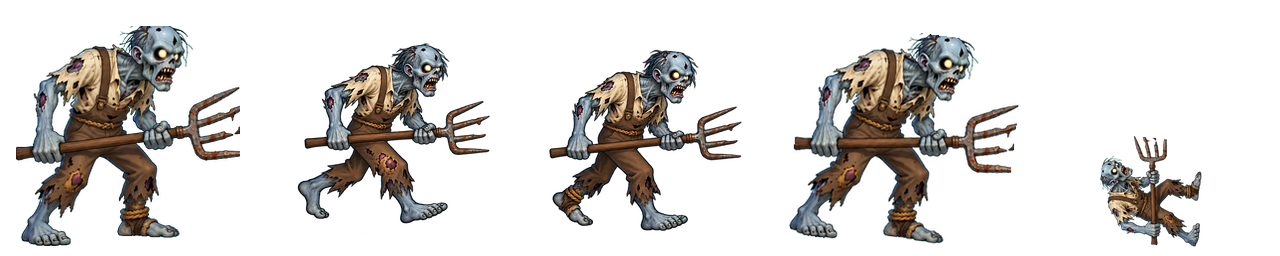
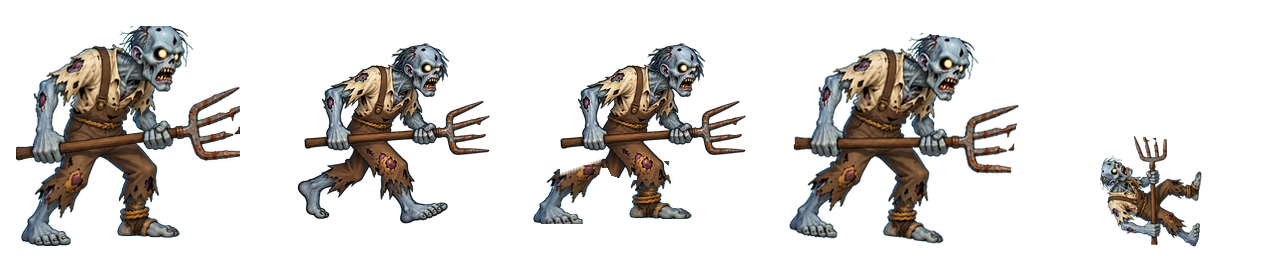
Repair zombie opposite-leg walk

Changed region(s): [[0.4062, 0.1562, 0.5938, 0.9062]]

diff --git a/src/art/registry.ts b/src/art/registry.ts
@@ -46,7 +46,7 @@ export interface TextureSpec {
 // The query is intentional. Painted files are stable public URLs rather than
 // Vite-hashed imports, so a version here guarantees that a deployed art pass
 // cannot be hidden behind an older service-worker entry.
-export const PAINTED_MANIFEST_URL = 'assets/painted/manifest.json?v=regional-environment-52';
+export const PAINTED_MANIFEST_URL = 'assets/painted/manifest.json?v=regional-environment-48';
 
 function specs(drawn: ReadonlySet<string> = new Set()): TextureSpec[] {
   const out: TextureSpec[] = [];

diff --git a/docs/WALK_CYCLE_QA.md b/docs/WALK_CYCLE_QA.md
@@ -2,7 +2,7 @@
 
 All 34 manifest entries whose movement animation points to two frames (`walk: [1, 2]`) were inspected at full sheet resolution. The frame mapping alone does not prove alternate legs.
 
-## Repair required: 10 grounded characters
+## Repair required: 9 grounded characters
 
 In every pair below, the same anatomical leg appears ahead in both movement cells, even when the stride or knee height changes. These sheets must not be counted as completed alternating-leg walks.
 
@@ -12,7 +12,6 @@ In every pair below, the same anatomical leg appears ahead in both movement cell
 - `unit.runesmith.frames`
 - `unit.gravewarden.frames`
 - `unit.skeleton.frames`
-- `unit.zombie.frames`
 - `unit.ghoul.frames`
 - `unit.vampire.frames`
 - `unit.lich.frames`
@@ -33,7 +32,7 @@ These have visibly different wing or trailing-form silhouettes across the two mo
 - `unit.black_hawk.frames`
 - `unit.succubus.frames`
 
-The militia, archer and guardian sheets were repaired by compositing each character's own lower-body pixels: the near leg trails and the far leg leads in the second frame, with right-facing boots and unchanged upper bodies. All three were reviewed at 256 px, 96 px, and a 6 fps preview. Guardian walk B was redone on 2026-09-27: intact knee and shin plates from its idle cell and right-facing boots from its own walk cell replace a jagged first repair. The original tabard hem and upper 154 rows are preserved byte-for-byte; the four-row hip transition is blended. Goblin walk B was repaired on 2026-09-27 with its near boot trailing left and far boot leading right, both toes facing right; only the lower body changed, with all 170 upper rows byte-for-byte identical to walk A. Its rendered lower-body pixels were selected from that goblin's existing idle, walk and attack cells, and checked at 256 px, 96 px, and 6 fps. Goblin runner walk B was repaired with the near leg bending left toward the larger trailing boot and the far leg bending right toward the smaller leading boot. Both original boots retain right-facing toes; the upper 151 rows, arms and dagger remain byte-identical to walk A. Its leg surfaces come from the runner's own walk pixels and were checked at 256 px, 96 px, and 6 fps. Goblin bomber walk B reverses the leather shins and transfers its intact, unmirrored right-facing boots across the stride, while preserving its orange tabard, upper 181 rows and ground shadow. The lower-body hip overlap and the 256 px, 96 px, and 6 fps views were inspected. Hobgoblin walk B transfers its own complete unmirrored leather boots to a reversed stance while retaining the original right knee plate, tunic hem, sword, shield and upper 164 rows. The hip joins and 256 px, 96 px, and 6 fps views were reviewed. Cutthroat walk B moves the near leg and its intact large boot left behind the far leg, with the smaller boot leading right. The original unmirrored boots retain their right-facing toes; softened thigh joins preserve the tabard and both daggers, and the upper 166 rows match walk A. It was checked at 256 px, 96 px and 6 fps. Goblin thief walk B exchanges the leg geometry beneath the shorts, with the near large boot trailing left and the far small boot leading right. The boots are copied unmirrored from its own frame; both right-facing toes and both shin joins were checked at 256 px, 96 px and 6 fps. The upper 181 rows and baseline remain identical to walk A. Dwarf warrior walk B exchanges its own thigh and shin geometry, moving the near armored boot behind to the left and the far boot ahead to the right. Both original boots retain right-facing toes. The shield, apron and upper 172 rows are preserved, the hip overlap is feathered, and the 256 px, 96 px and 6 fps views were reviewed. Bran walk B moves the near armored leg behind to the left and the far leg ahead beneath the shield. Both intact boots come from Bran’s own walk pixels, keep the original scale and baseline, and stay connected to the body. The upper 160 rows and all opaque shield pixels are identical to walk A; the thigh overlap is softened and the sheet was reviewed at 256 px, 96 px and 6 fps. Skeleton archer walk B crosses the exposed bone thighs and knees, moving its near wrapped boot behind to the left and its far boot ahead to the right. Both boots are copied unmirrored from the same skeleton archer, the original red cloak and bow remain intact, the upper 149 rows and baseline match walk A, and the 256 px, 96 px and 6 fps views were reviewed. Bone golem walk B exchanges its own exposed bone knees and feet beneath the unchanged skull and blue drape. The large near foot trails left and the smaller far foot leads right, with right-facing toes, connected limbs and no stray cutout fragments. Its upper 166 rows and ground baseline match walk A, and the 256 px, 96 px and 6 fps views were reviewed. Drafts that repeated the same leading leg or broke the boots were rejected before import. The arbalest remains on `walk: [0]`. The 10 defects above add to, rather than replace, the manifest entries still using idle as their walk.
+The militia, archer and guardian sheets were repaired by compositing each character's own lower-body pixels: the near leg trails and the far leg leads in the second frame, with right-facing boots and unchanged upper bodies. All three were reviewed at 256 px, 96 px, and a 6 fps preview. Guardian walk B was redone on 2026-09-27: intact knee and shin plates from its idle cell and right-facing boots from its own walk cell replace a jagged first repair. The original tabard hem and upper 154 rows are preserved byte-for-byte; the four-row hip transition is blended. Goblin walk B was repaired on 2026-09-27 with its near boot trailing left and far boot leading right, both toes facing right; only the lower body changed, with all 170 upper rows byte-for-byte identical to walk A. Its rendered lower-body pixels were selected from that goblin's existing idle, walk and attack cells, and checked at 256 px, 96 px, and 6 fps. Goblin runner walk B was repaired with the near leg bending left toward the larger trailing boot and the far leg bending right toward the smaller leading boot. Both original boots retain right-facing toes; the upper 151 rows, arms and dagger remain byte-identical to walk A. Its leg surfaces come from the runner's own walk pixels and were checked at 256 px, 96 px, and 6 fps. Goblin bomber walk B reverses the leather shins and transfers its intact, unmirrored right-facing boots across the stride, while preserving its orange tabard, upper 181 rows and ground shadow. The lower-body hip overlap and the 256 px, 96 px, and 6 fps views were inspected. Hobgoblin walk B transfers its own complete unmirrored leather boots to a reversed stance while retaining the original right knee plate, tunic hem, sword, shield and upper 164 rows. The hip joins and 256 px, 96 px, and 6 fps views were reviewed. Cutthroat walk B moves the near leg and its intact large boot left behind the far leg, with the smaller boot leading right. The original unmirrored boots retain their right-facing toes; softened thigh joins preserve the tabard and both daggers, and the upper 166 rows match walk A. It was checked at 256 px, 96 px and 6 fps. Goblin thief walk B exchanges the leg geometry beneath the shorts, with the near large boot trailing left and the far small boot leading right. The boots are copied unmirrored from its own frame; both right-facing toes and both shin joins were checked at 256 px, 96 px and 6 fps. The upper 181 rows and baseline remain identical to walk A. Dwarf warrior walk B exchanges its own thigh and shin geometry, moving the near armored boot behind to the left and the far boot ahead to the right. Both original boots retain right-facing toes. The shield, apron and upper 172 rows are preserved, the hip overlap is feathered, and the 256 px, 96 px and 6 fps views were reviewed. Bran walk B moves the near armored leg behind to the left and the far leg ahead beneath the shield. Both intact boots come from Bran’s own walk pixels, keep the original scale and baseline, and stay connected to the body. The upper 160 rows and all opaque shield pixels are identical to walk A; the thigh overlap is softened and the sheet was reviewed at 256 px, 96 px and 6 fps. Skeleton archer walk B crosses the exposed bone thighs and knees, moving its near wrapped boot behind to the left and its far boot ahead to the right. Both boots are copied unmirrored from the same skeleton archer, the original red cloak and bow remain intact, the upper 149 rows and baseline match walk A, and the 256 px, 96 px and 6 fps views were reviewed. Bone golem walk B exchanges its own exposed bone knees and feet beneath the unchanged skull and blue drape. The large near foot trails left and the smaller far foot leads right, with right-facing toes, connected limbs and no stray cutout fragments. Its upper 166 rows and ground baseline match walk A, and the 256 px, 96 px and 6 fps views were reviewed. Zombie walk B uses the zombie’s own idle-cell opposite stance below the hips: the grey near leg trails left and the wrapped far leg leads right. The pants join is blended across four pixels, the weapon and upper 155 rows are preserved, and both feet face right at the same baseline. It was checked at 256 px, 96 px and 6 fps. Drafts that repeated the same leading leg or broke the boots were rejected before import. The arbalest remains on `walk: [0]`. The 9 defects above add to, rather than replace, the manifest entries still using idle as their walk.
 
 ## Acceptance gate for each new or repaired sheet
 
